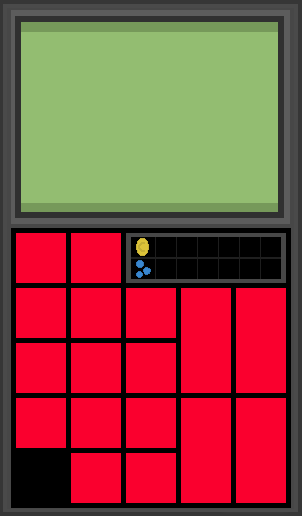
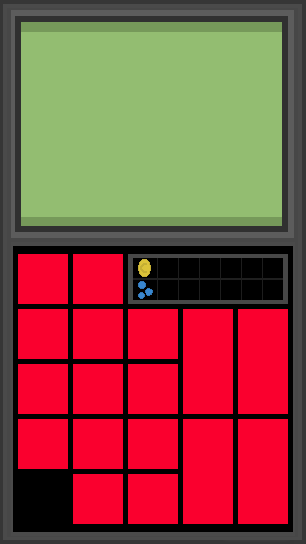
added captions and button

Changed region(s): [[0.0298, 0.031, 0.9834, 0.9922]]

diff --git a/calculator_warrior.py b/calculator_warrior.py
@@ -1,18 +1,24 @@
-import pygame
+import pygame #импорт библиотеки
 
 
-pygame.init()
-screen = pygame.display.set_mode((302, 516))
-pygame.display.set_caption("Calculator warrior")
-bg_image = pygame.image.load("images\BG\BG.png")
+pygame.init() #инициализация библиотеки
+screen = pygame.display.set_mode((306, 544)) #присваивание переменной screen значение размера окна
+pygame.display.set_caption("Calculator warrior") #обозначение названия окна
 
-running = True
 
-while running:
-    
-    pygame.display.update()
+bg_image = pygame.image.load('images/BG/BG.png') #присваивание переменной bg_image картинки заднего фона
+button_1 = pygame.image.load('images/Buttons/Button_1.png') #присваивание переменной button_1 картинки кнопки 1
 
-    for event in pygame.event.get():
-        if event.type == pygame.QUIT:
-            running = False
-            pygame.quit()
+
+running = True #обьявление переменной обозначающей работу приложения
+while running: #обьявление бесконечного цикла
+
+    screen.blit(bg_image, (0, 0)) #добавление заднего фона на экранs
+    screen.blit(button_1, (100, 100)) #добавление кнопки на экран
+
+    pygame.display.update() #обновление экрана
+
+    for event in pygame.event.get(): #цикл проверки ивентов
+        if event.type == pygame.QUIT: #проверка нажатия кнопки закрыть на окне
+            running = False #остановка бесконечного цикла
+            pygame.quit() #окончание работы pygame
